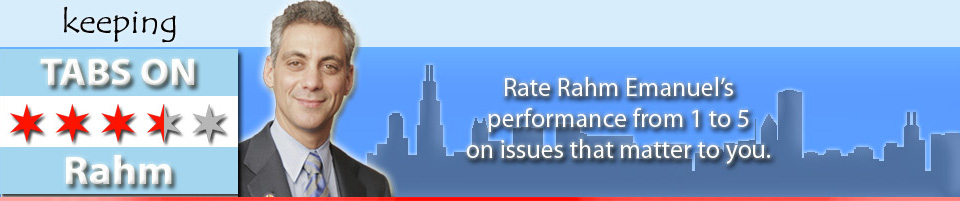
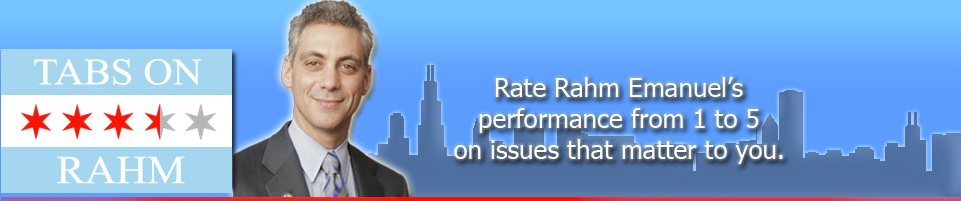
header/background color and some Obama references change to Rahm

diff --git a/public/stylesheets/application.css b/public/stylesheets/application.css
@@ -7,8 +7,7 @@ body {
 		color: #444;
 		font-family: 'Lucida Grande',Arial,Helvetica,Sans-Serif;
 		font-size: 0.75em;
-		background: url(../images/bg.jpg) no-repeat scroll center top;
-		background-color: #5E82FB;
+		background-color: #6185FA;
 }
 
 h1, h2, h3, h4, h5 {
@@ -85,7 +84,7 @@ strong {
 }
 
 #spine {
-		background-color: #D5E7F9;
+		background-color: #6185FA;
 		height: 30px;
 		width: 100%;
 }
@@ -179,7 +178,7 @@ strong {
 		margin: 0;
 		padding: 15px;
 		clear: both;
-		background: #4e6df6 no-repeat scroll 50% 15px;
+		background: #6185FA no-repeat scroll 50% 15px;
 		color: #CCC;
 }
 
